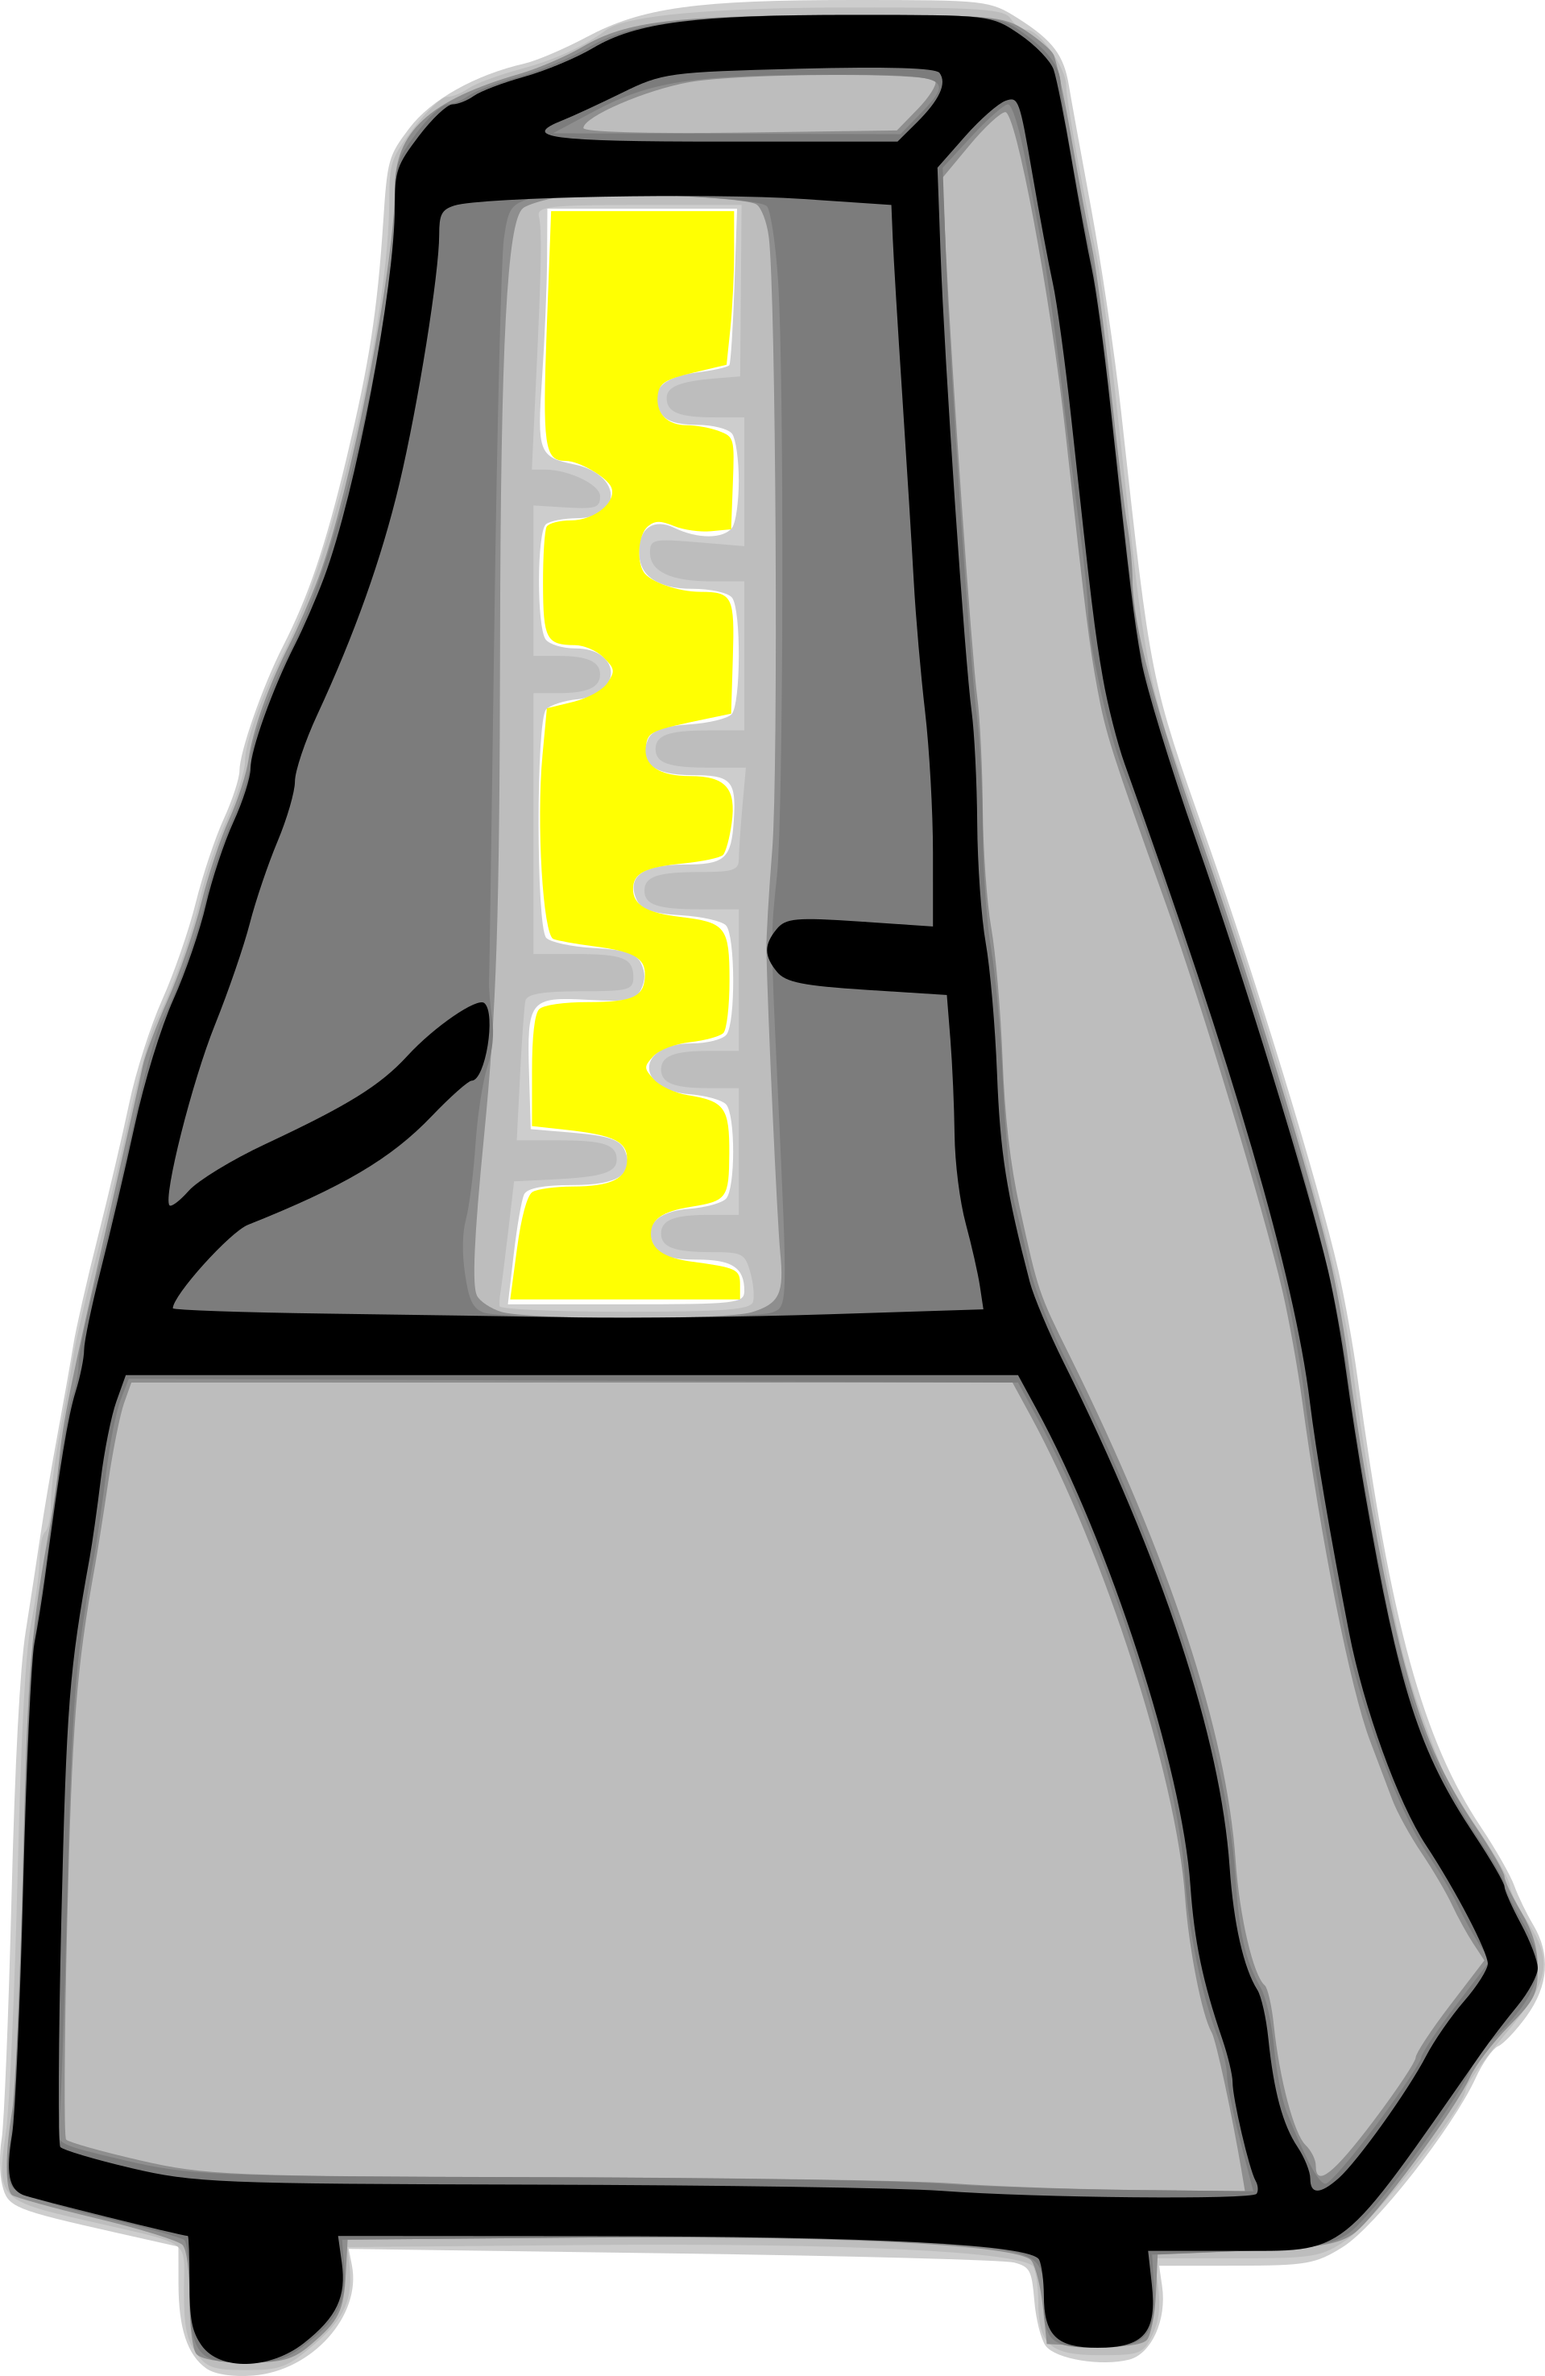
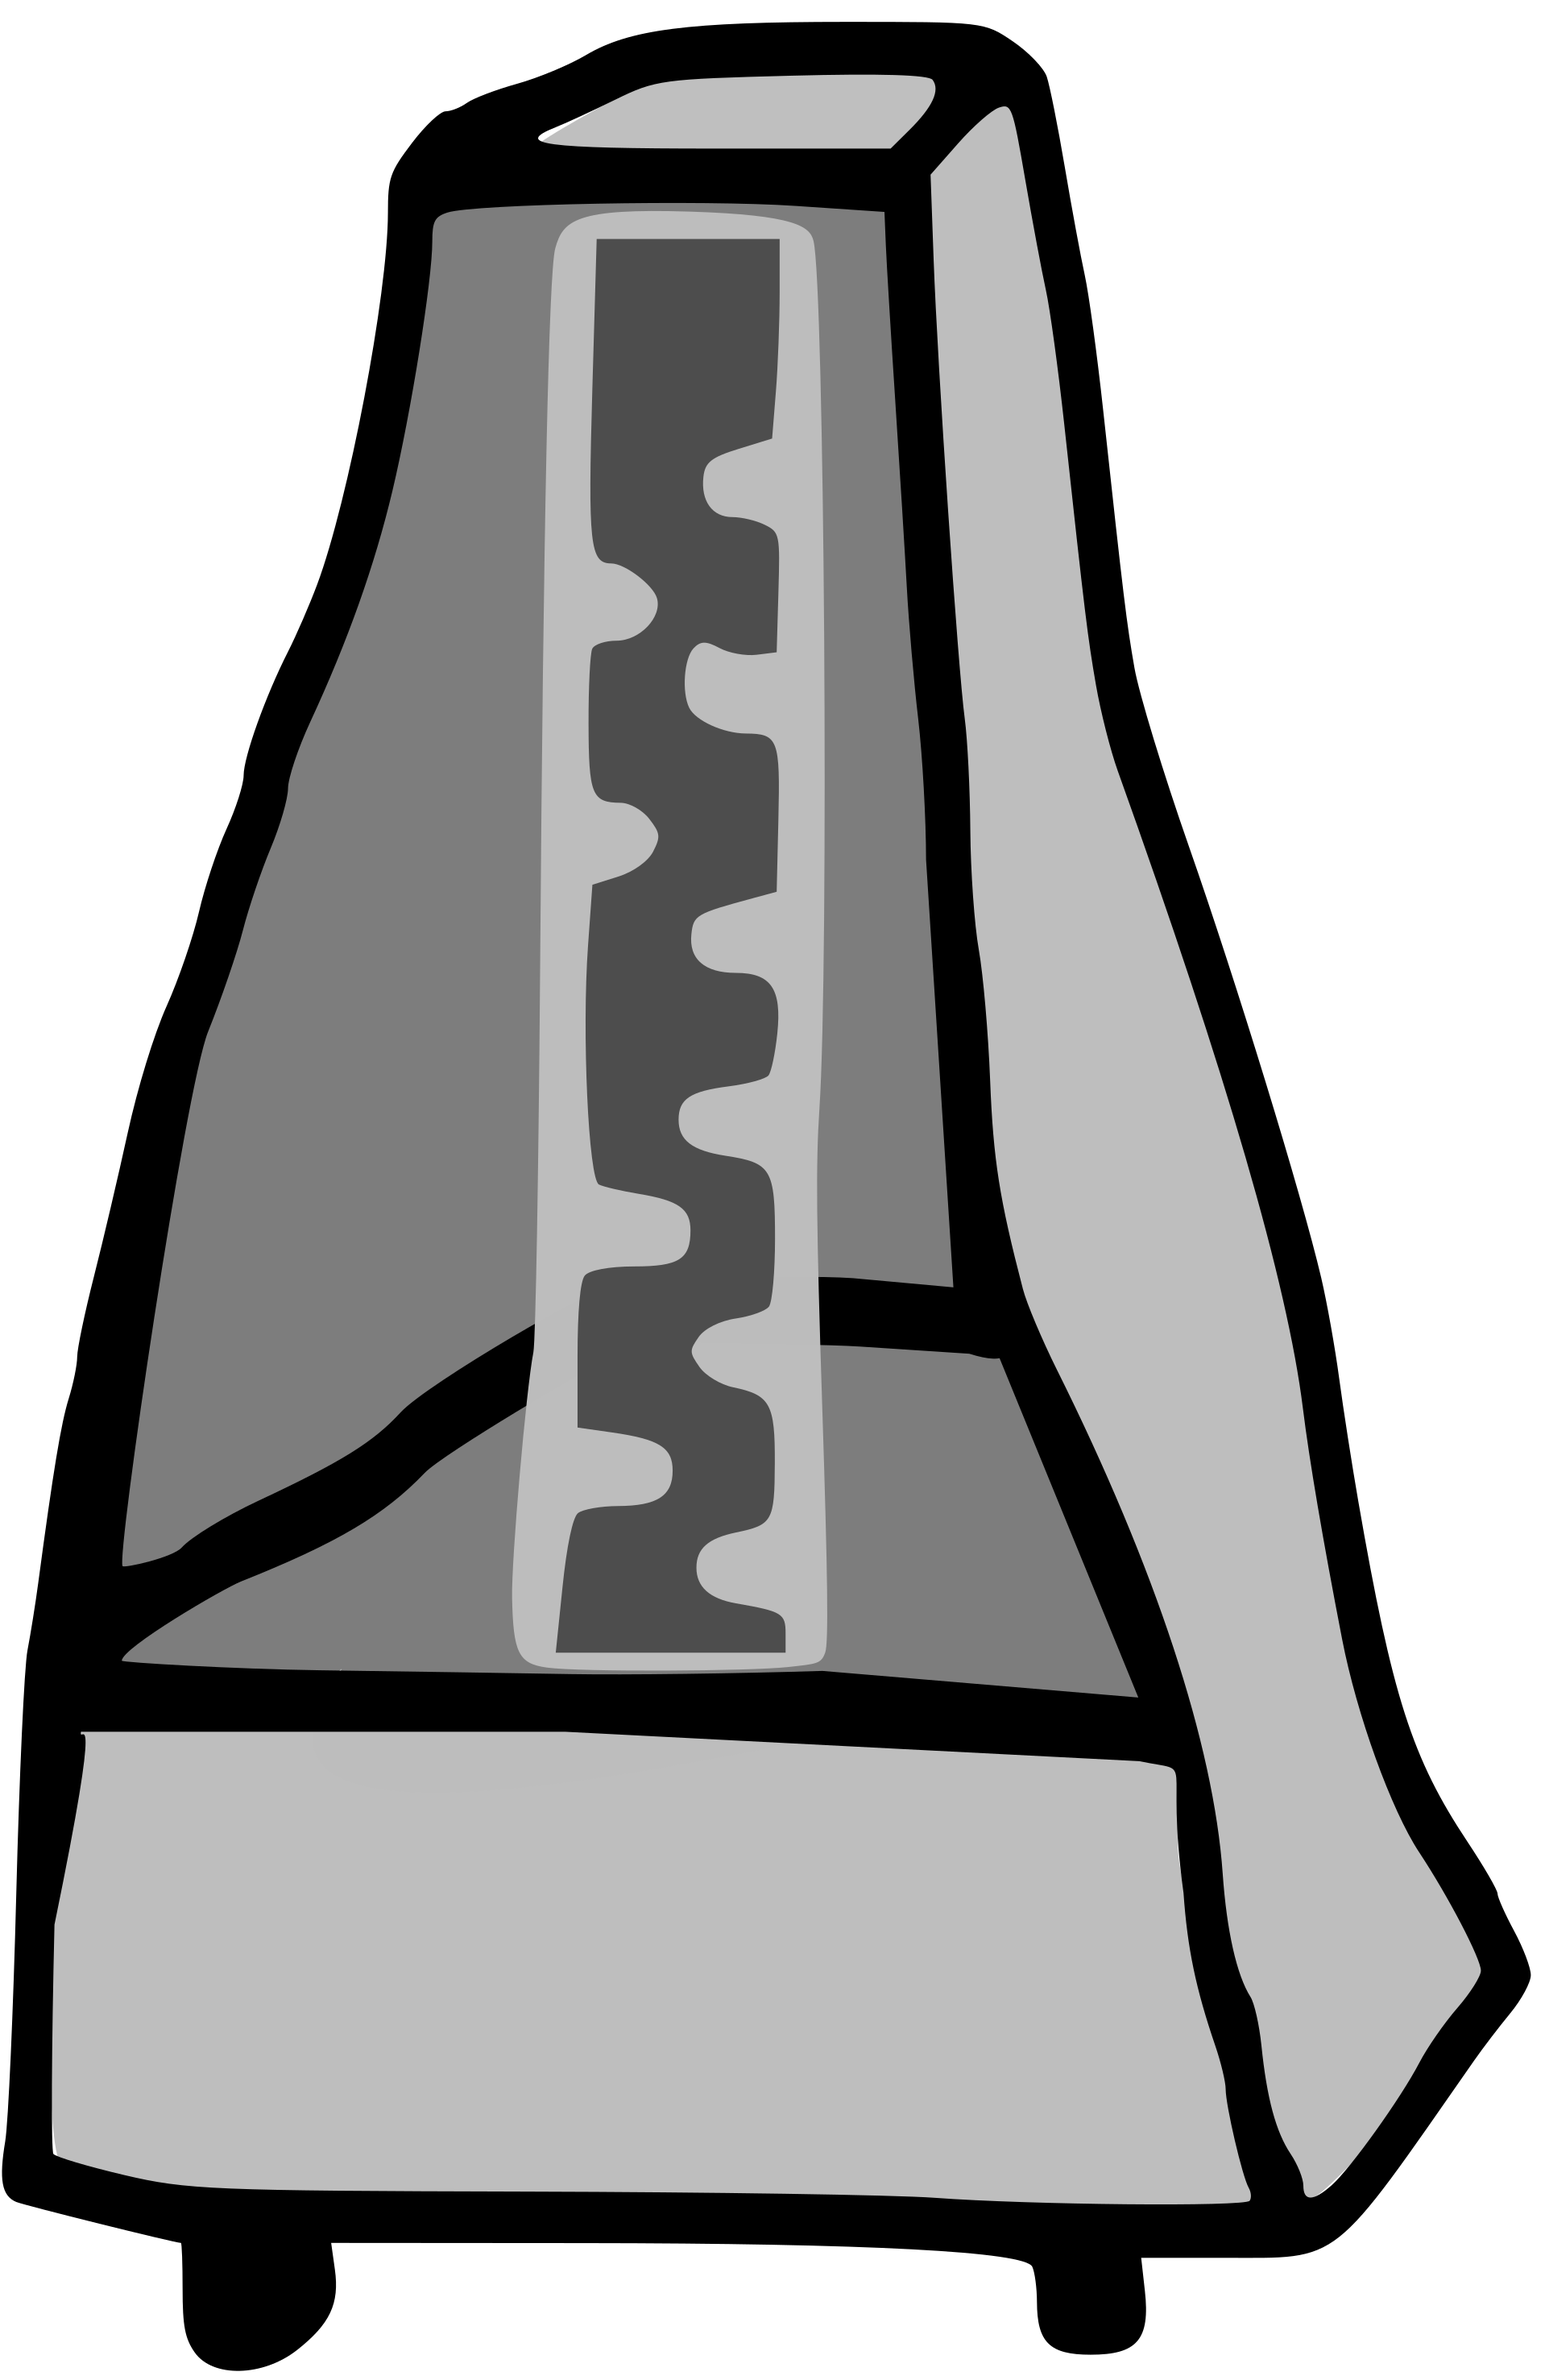
Increase penlulum size and metronome window capacity
Adjust code for it. 'count' and 'ring' options moved to drawer.
Narrowed movement angel due to longer handle

Changed region(s): [[0.0, 0.0, 1.0, 1.0], [0.1538, 0.2808, 0.2153, 0.3432]]

diff --git a/src/MainWindow.qml b/src/MainWindow.qml
@@ -47,7 +47,7 @@ Window {
         id: pendulum
         color: leanEnough ? "green" : (stopArea.containsPress && SOUND.playing ? "red" : (pendArea.dragged ? activPal.highlight : (GLOB.stationary ? "gray" : "black")))
         width: parent.width / 20; y: parent.height * 0.125 - width / 2
-        x: parent.width * 0.3969; height: parent.height * 0.4572
+        x: parent.width * 0.3969; height: parent.height * 0.61
         radius: width / 2
         transformOrigin: Item.Bottom
 
@@ -61,12 +61,12 @@ Window {
             dragged = true
             var dev = mouse.x - width / 2
             pendulum.rotation = (Math.atan(dev / height) * 180) / Math.PI
-            leanEnough = Math.abs(dev) > height * 0.268 // 15 deg
+            leanEnough = Math.abs(dev) > height * 0.2
           }
           onReleased: {
             leanEnough = false
             dragged = false
-            if (Math.abs(mouse.x - width / 2) > height * 0.268)
+            if (Math.abs(mouse.x - width / 2) > height * 0.2)
               startMetronome()
             else
               stopMetronome()
@@ -75,8 +75,8 @@ Window {
 
         Shape {
           id: countW // counterweight
-          width: parent.width * 3; height: parent.height / 5
-          y: parent.height * (0.05 + ((SOUND.tempo - 40) / 200) * 0.6)
+          width: parent.width * 3; height: parent.width * 3
+          y: parent.height * (0.05 + ((SOUND.tempo - 40) / 200) * 0.65)
           anchors.horizontalCenter: parent.horizontalCenter
           ShapePath {
             strokeWidth: pendulum.width / 3
@@ -85,14 +85,14 @@ Window {
             capStyle: ShapePath.RoundCap; joinStyle: ShapePath.RoundJoin
             startX: 0; startY: 0
             PathLine { x: pendulum.width * 3; y: 0 }
-            PathLine { x: pendulum.width * 3; y: pendulum.height / 5 }
-            PathLine { x: pendulum.width * 2.5; y: pendulum.height / 4.2 }
-            PathLine { x: pendulum.width * 0.5; y: pendulum.height / 4.2 }
-            PathLine { x: 0; y: pendulum.height / 5 }
+            PathLine { x: pendulum.width * 3; y: pendulum.width * 2 }
+            PathLine { x: pendulum.width * 2.5; y: pendulum.width * 3 }
+            PathLine { x: pendulum.width * 0.5; y: pendulum.width * 3 }
+            PathLine { x: 0; y: pendulum.width * 2 }
             PathLine { x: 0; y: 0 }
           }
           Text {
-            visible: SOUND.meter > 1 && countChB.checked && SOUND.playing
+            visible: SOUND.meter > 1 && GLOB.countVisible && SOUND.playing
             text: SOUND.meterCount + 1
             anchors.centerIn: parent
             color: "white"
@@ -104,17 +104,17 @@ Window {
             anchors.fill: parent
             drag.target: countW
             drag.axis: Drag.YAxis
-            drag.minimumY: pendulum.height * 0.05; drag.maximumY: pendulum.height * 0.65
+            drag.minimumY: pendulum.height * 0.05; drag.maximumY: pendulum.height * 0.7
             cursorShape: drag.active ? Qt.DragMoveCursor : Qt.ArrowCursor
-            onPositionChanged: SOUND.tempo = Math.round((countW.y * 200) / (pendulum.height * 0.6) + 23)
+            onPositionChanged: SOUND.tempo = Math.round((countW.y * 200) / (pendulum.height * 0.65) + 25)
           }
         }
       }
 
       Rectangle { // cover for lover pendulum end
         color: "black"
-        width: parent.width * 0.2; height: parent.width / 28
-        x: parent.width * 0.3; y: parent.height * 0.555
+        width: parent.width * 0.2; height: parent.width / 24
+        x: parent.width * 0.3; y: parent.height * 0.703
       }
 
       Row {
@@ -125,7 +125,7 @@ Window {
         }
         Tumbler {
           id: meterTumb
-          width: metro.width * 0.2; height: width * 0.9
+          width: metro.width * 0.2; height: width * 0.8
           model: 12
           wrap: false; visibleItemCount: 3
           currentIndex: SOUND.meter - 1
@@ -143,34 +143,15 @@ Window {
       SpinBox {
         id: sb
         height: parent.height * 0.07; width: height * 3
-        x: parent.width * 0.7 - width; y: parent.height * (GLOB.isAndroid() ? 0.85 : 0.88) - height
+        x: parent.width * 0.7 - width; y: parent.height * 0.92 - height
         font { bold: true; }
         from: 40; to: 240
         value: SOUND.tempo
         onValueModified: SOUND.tempo = value
       }
 
-      Row {
-        anchors { top: sb.bottom; right: sb.right }
-        spacing: GLOB.fontSize() * 2
-        CheckBox {
-          id: countChB
-          enabled: SOUND.meter > 1
-          text: qsTr("count")
-          checked: GLOB.countVisible
-          onToggled: GLOB.countVisible = checked
-        }
-        CheckBox {
-          id: bellChB
-          enabled: SOUND.meter > 1
-          text: qsTr("ring")
-          checked: SOUND.ring
-          onToggled: SOUND.ring = checked
-        }
-      }
-
       RoundButton {
-        x: parent.width * 0.1; y: parent.height * 0.6
+        x: parent.width * 0.1; y: parent.height * 0.76
         width: metro.width * 0.15; height: width
         radius: width / 2
         onClicked: {
@@ -194,8 +175,8 @@ Window {
   function startMetronome() {
     SOUND.meterCount = 0
     timer.toLeft = pendulum.rotation <= 0
-    initAnim.to = GLOB.stationary ? 0 : (timer.toLeft ? -35 : 35)
-    initAnim.duration = (30000 / SOUND.tempo) * ((35 - Math.abs(pendulum.rotation)) / 35)
+    initAnim.to = GLOB.stationary ? 0 : (timer.toLeft ? -25 : 25)
+    initAnim.duration = (30000 / SOUND.tempo) * ((25 - Math.abs(pendulum.rotation)) / 25)
     pendAnim.stop()
     initAnim.start()
   }
@@ -203,7 +184,7 @@ Window {
   function stopMetronome() {
     SOUND.playing = false;
     finishAnim.to = 0
-    finishAnim.duration = (30000 / SOUND.tempo) * ((35 - Math.abs(pendulum.rotation)) / 35)
+    finishAnim.duration = (30000 / SOUND.tempo) * ((25 - Math.abs(pendulum.rotation)) / 25)
     pendAnim.stop()
     finishAnim.start()
   }
@@ -244,7 +225,7 @@ Window {
     }
     onTriggered: {
       pendAnim.stop()
-      pendAnim.to = toLeft ? 35 : -35
+      pendAnim.to = toLeft ? 25 : -25
       pendAnim.start()
       var currTime = new Date().getTime()
       if (elap > 0) {
@@ -257,8 +238,6 @@ Window {
       toLeft = !toLeft
     }
   }
-
-//   Component.onCompleted: {}
 
   onClosing: {
     GLOB.geometry = Qt.rect(x ,y, width, height)

diff --git a/src/MainMenuButton.qml b/src/MainMenuButton.qml
@@ -22,13 +22,20 @@ AbstractButton {
     width: parent.width
     spacing: height / 6
     topPadding: spacing
-    Repeater {
-      model: 3
-      Rectangle {
-        width: menuButt.width / 3; height: width; radius: width / 2
-        anchors.horizontalCenter: parent.horizontalCenter
-        color: activPal.text
-      }
+    Rectangle {
+      width: menuButt.width / 3; height: width; radius: width / 2
+      anchors.horizontalCenter: parent.horizontalCenter
+      color: SOUND.ring ? "red" : activPal.text
+    }
+    Rectangle {
+      width: menuButt.width / 3; height: width; radius: width / 2
+      anchors.horizontalCenter: parent.horizontalCenter
+      color: GLOB.countVisible ? "yellow" : activPal.text
+    }
+    Rectangle {
+      width: menuButt.width / 3; height: width; radius: width / 2
+      anchors.horizontalCenter: parent.horizontalCenter
+      color: GLOB.stationary ? activPal.text : "lime"
     }
   }
 

diff --git a/src/MainDrawerContent.qml b/src/MainDrawerContent.qml
@@ -32,6 +32,20 @@ Column {
   }
 
   DrawerButton {
+    text: qsTr("count down visible")
+    checkable: true
+    checked: GLOB.countVisible
+    onToggled: GLOB.countVisible = checked
+  }
+
+  DrawerButton {
+    text: qsTr("ring at \"one\"")
+    checkable: true
+    checked: SOUND.ring
+    onToggled: SOUND.ring = checked
+  }
+
+  DrawerButton {
     text: qsTr("pendulum stationary")
     checkable: true
     checked: GLOB.stationary
